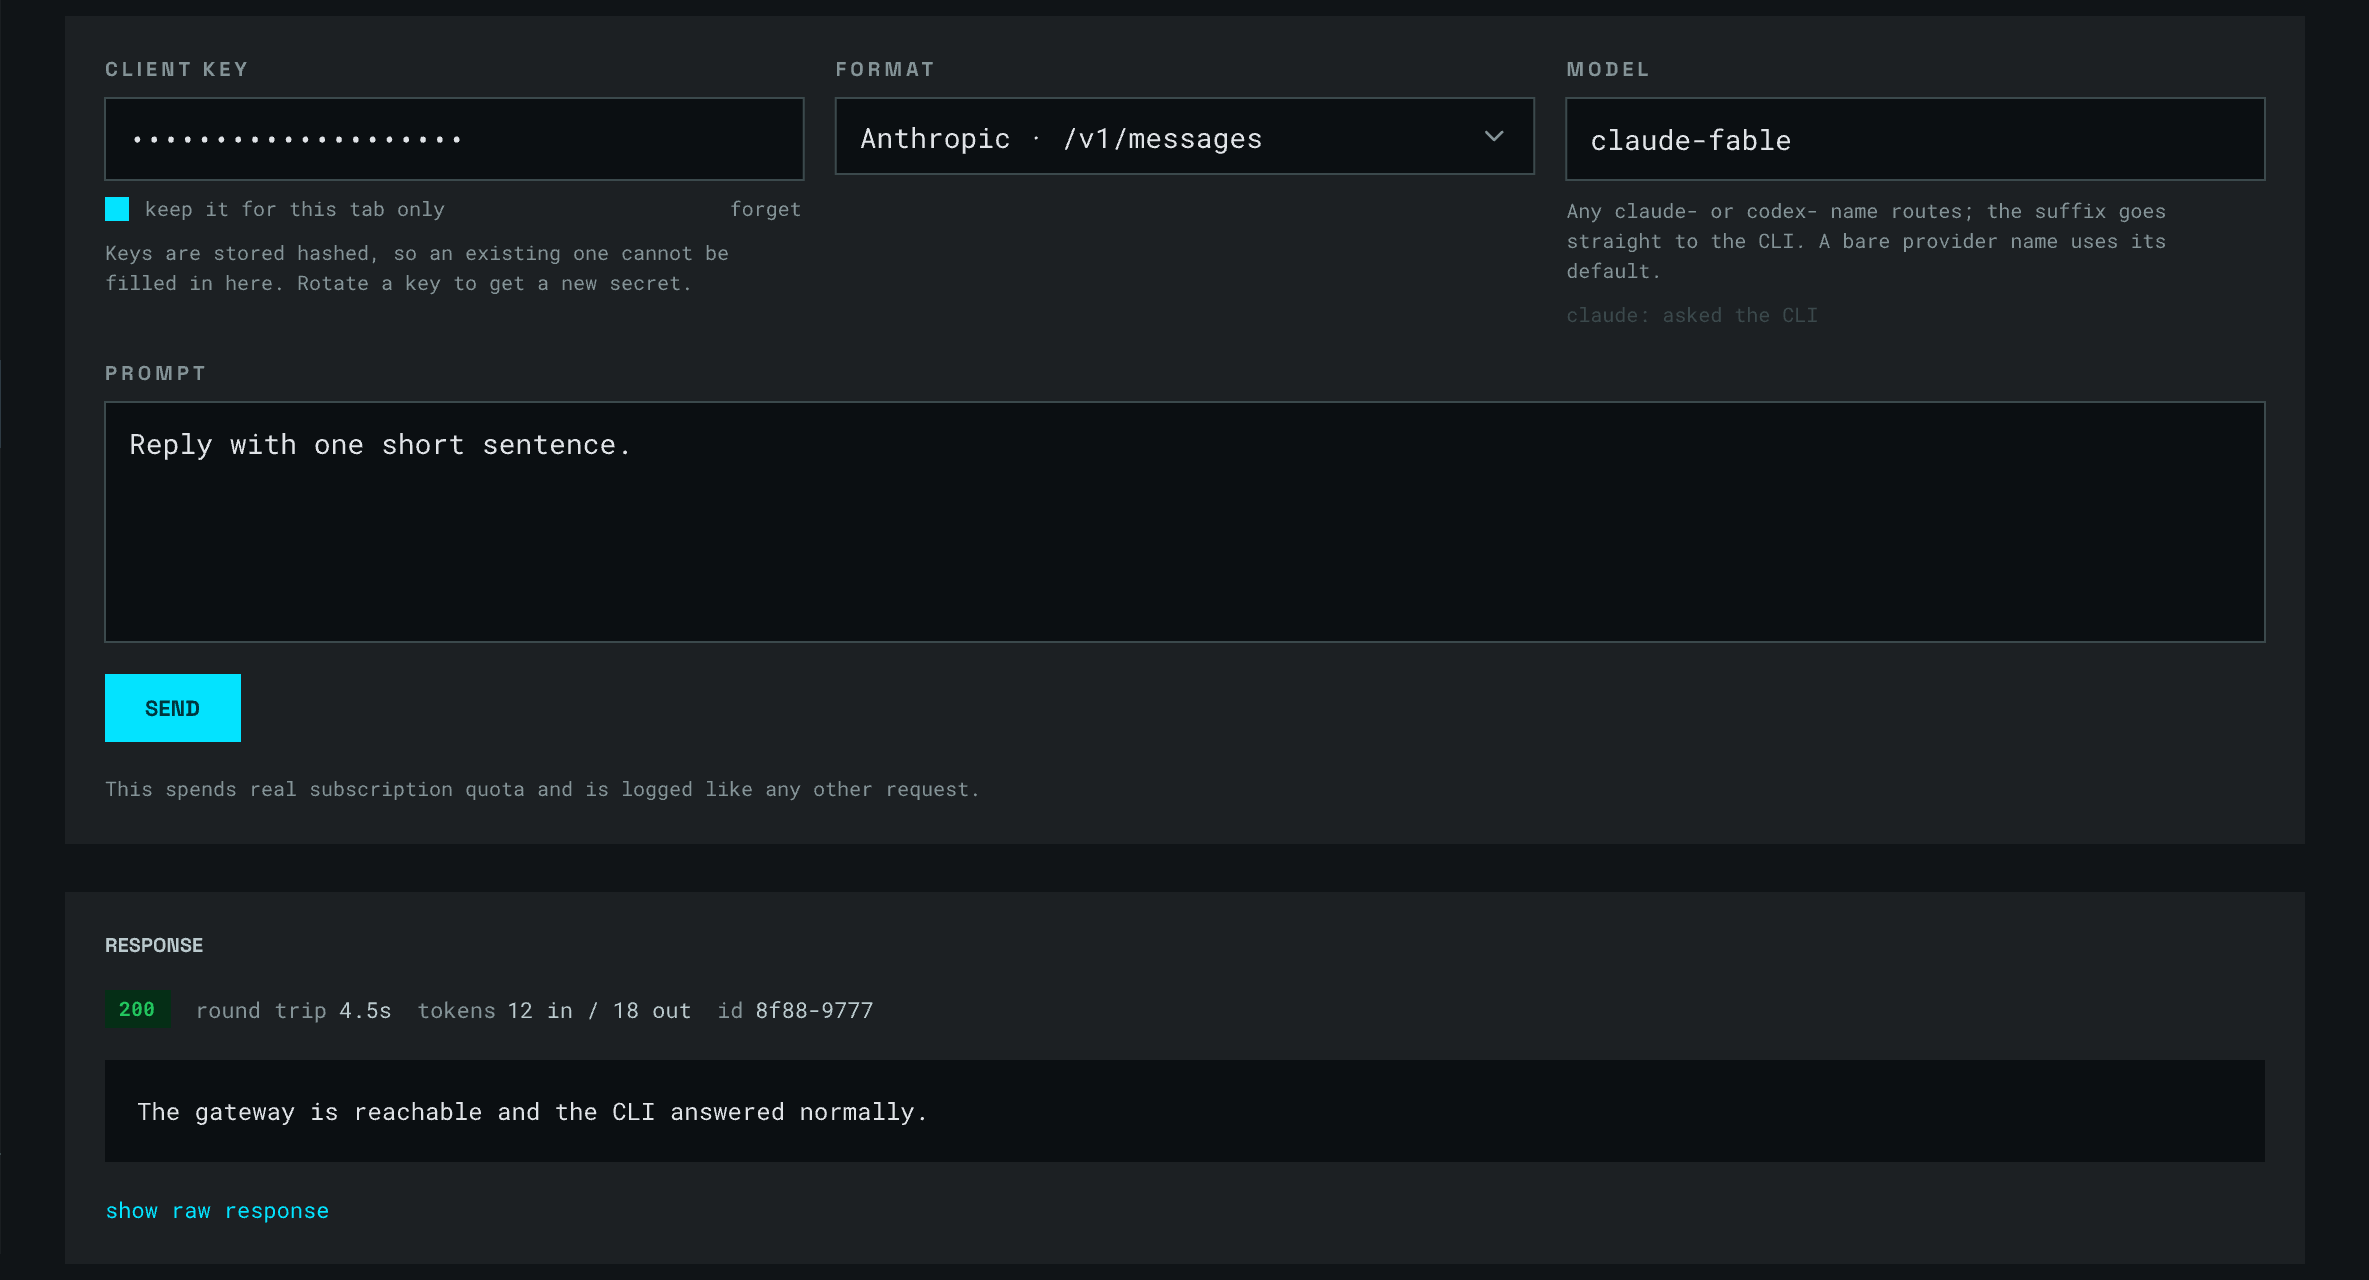
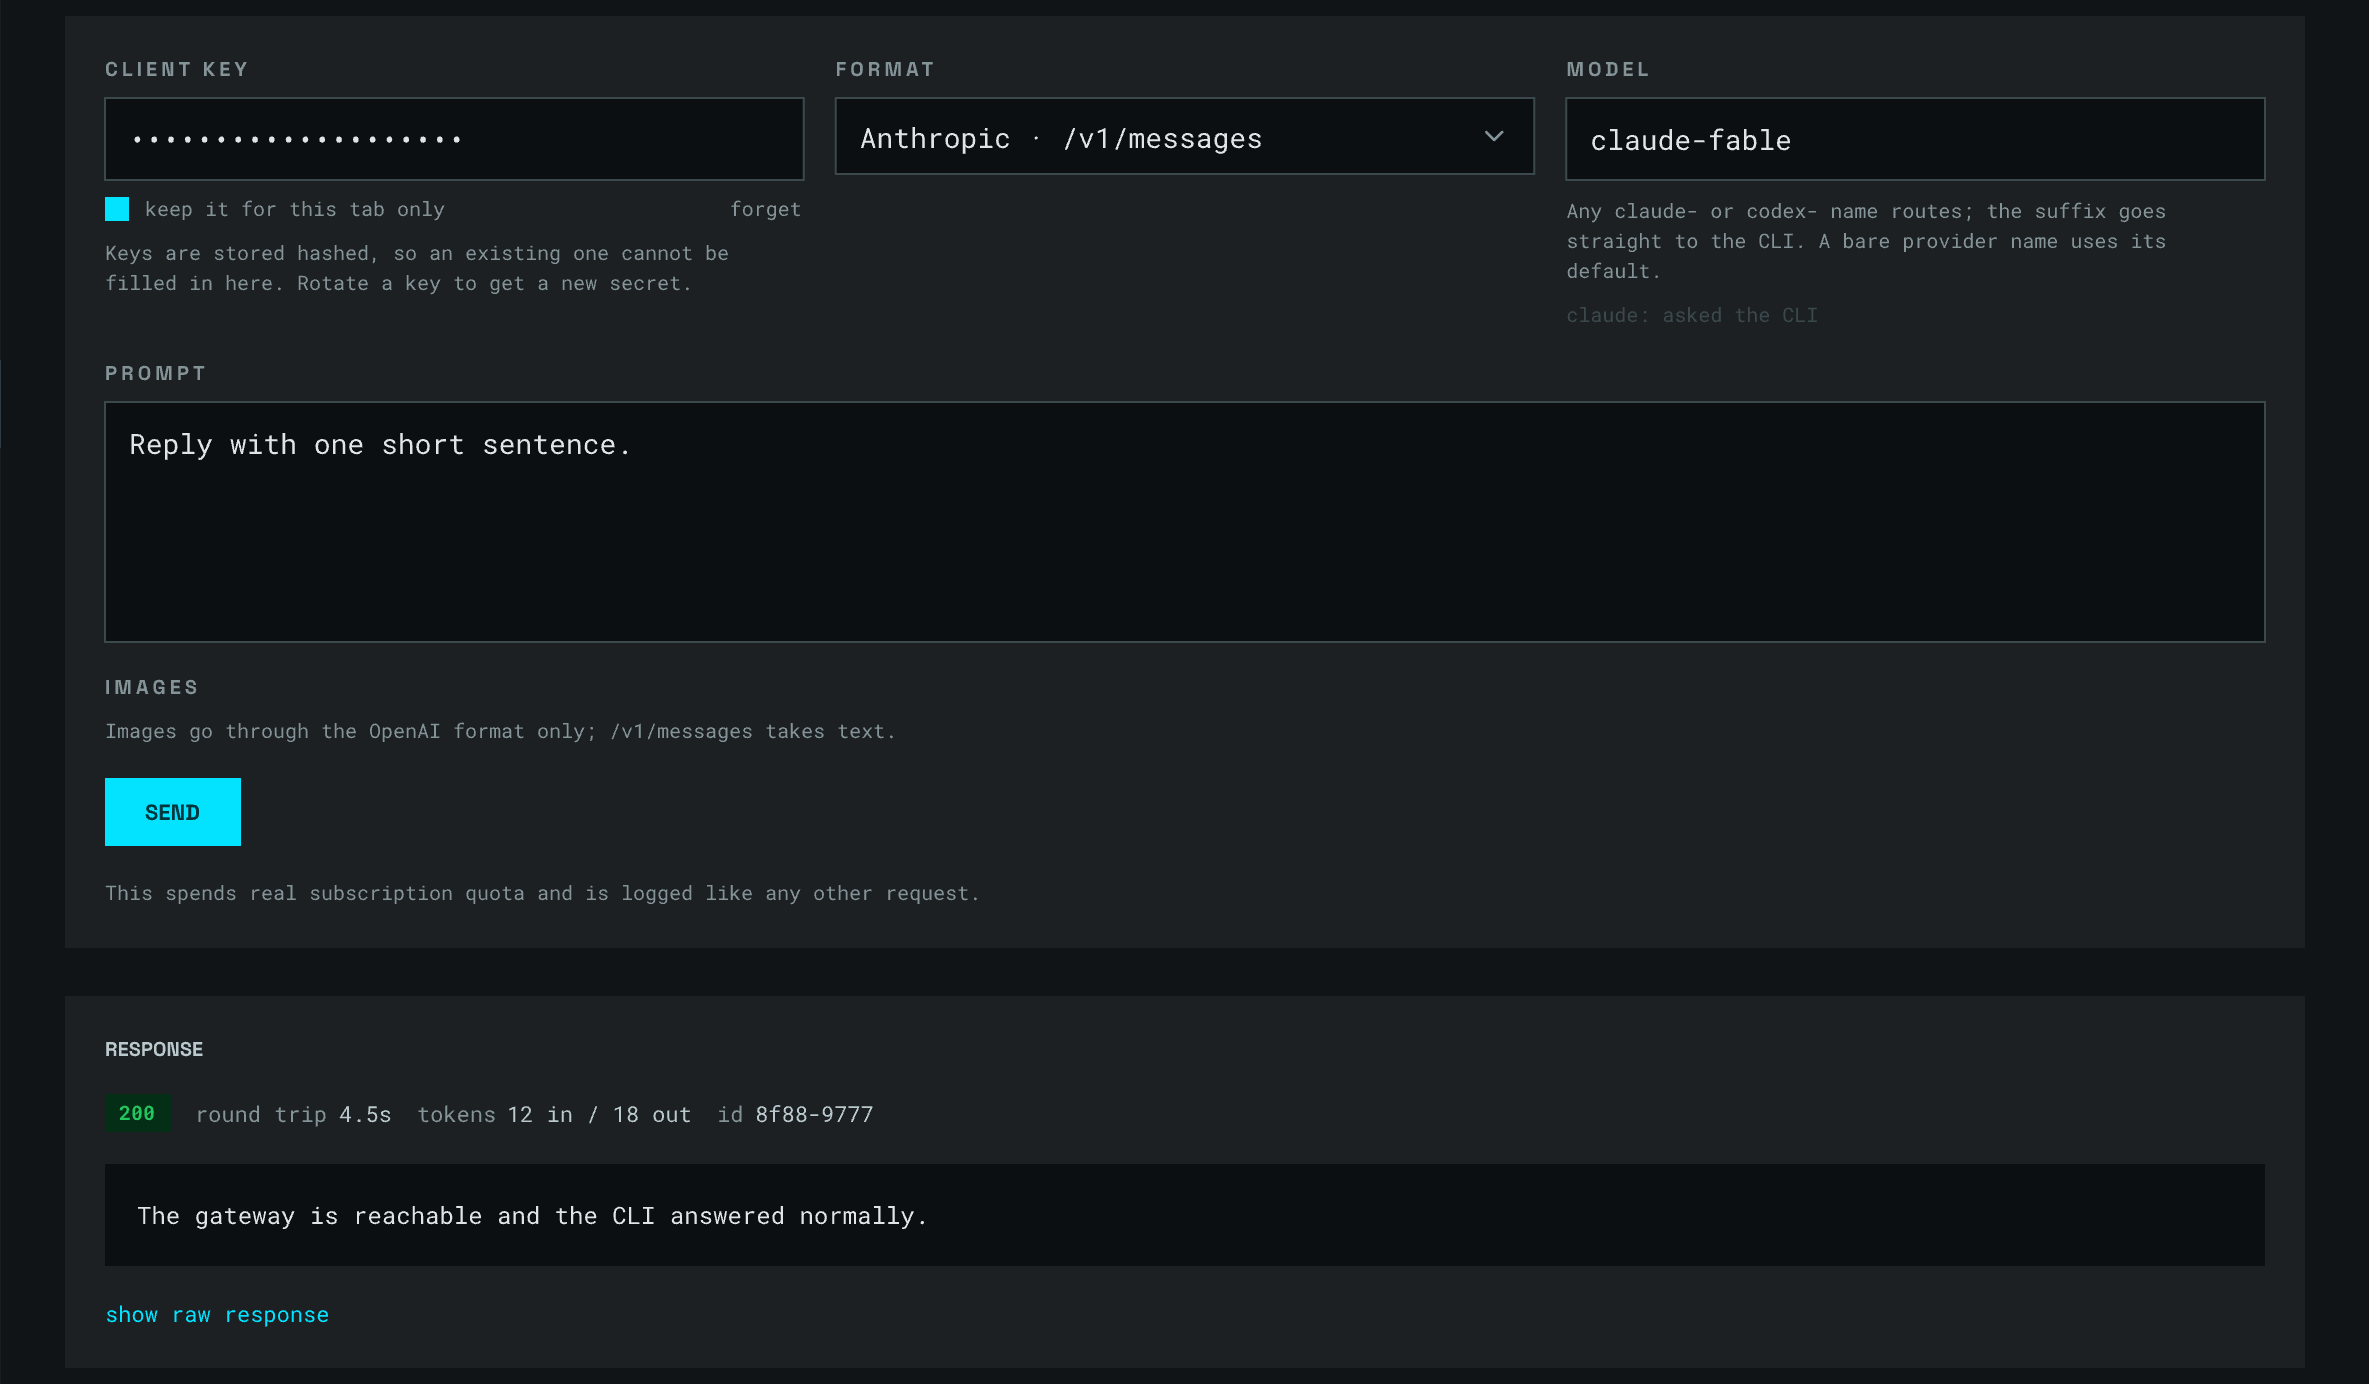
docs(site): recut the Playground crop to include its IMAGES block
The source artboard grew by the IMAGES block, so the crop's region grows by
the same 104 device px (511, 140, 2369, 1384), cut from admin.pen through a
temporary clipped frame as assets/site/README.md describes. The landing's
width and height attributes and the alt text follow the new crop.

diff --git a/site/index.html b/site/index.html
@@ -264,7 +264,7 @@
           <h3>Playground</h3>
           <p>Send a real request down the path your app takes.</p>
         </figcaption>
-        <img src="img/playground.png" width="2369" height="1280" alt="The Playground: a client key, the Anthropic /v1/messages format and the claude-fable model across one row, the prompt below them, and underneath an answered response showing status 200, a 4.5 second round trip, tokens in and out, and the request id." loading="lazy">
+        <img src="img/playground.png" width="2369" height="1384" alt="The Playground: a client key, the Anthropic /v1/messages format and the claude-fable model across one row, the prompt below them with the images line the Anthropic format shows, and underneath an answered response showing status 200, a 4.5 second round trip, tokens in and out, and the request id." loading="lazy">
       </figure>
 
       <figure class="frame panel reveal">

diff --git a/assets/site/README.md b/assets/site/README.md
@@ -14,7 +14,7 @@ anything yet.
 | `overview.png` | `admin-overview-default.png` | `0, 0, 2880, 1440` | The whole top band, sidebar included. Exactly 2:1, which is also why it is the OG card. |
 | `request-logs.png` | `admin-request-logs-default.png` | `511, 354, 2369, 845` | Error rate, tokens and cost, then three rows and one expanded detail row. |
 | `api-keys.png` | `admin-api-keys-default.png` | `511, 236, 2369, 904` | The connection row with the base URL, then the three keys with limits, usage and expiry — and the browser origin the middle one is scoped to. |
-| `playground.png` | `admin-playground-answered.png` | `511, 140, 2369, 1280` | The whole exchange: key, format and model across one row, the prompt, and the answer below it with its status, round trip, tokens and request id. |
+| `playground.png` | `admin-playground-answered.png` | `511, 140, 2369, 1384` | The whole exchange: key, format and model across one row, the prompt and its IMAGES line, and the answer below it with its status, round trip, tokens and request id. |
 | `system.png` | `admin-system-default.png` | `511, 900, 2369, 660` | Both provider cards: CLI version, circuit state, last status, models. |
 
 **Why crops and not the whole capture.** A full admin capture is 1,440 logical px wide. Rendered
@@ -32,7 +32,7 @@ temporary and is deleted once the PNG is written.
 **A region here is a measurement, not a setting.** It tracks content that moves when the artboard
 above it grows: adding the usage card to API Keys pushed the table down 668 device px, splitting
 the Logs filter bar pushed its panels down 88, and putting the actions back on that filter row
-pulled them up 34 again — every one re-derived from the artboard's own bounds rather than nudged
+pulled them up 34 again, and the Playground's IMAGES block grew its region by 104 — every one re-derived from the artboard's own bounds rather than nudged
 until the picture looked right. Recut a crop whenever its source
 artboard changes height, and update the row in the same commit — a stale region silently publishes
 the wrong part of the screen.
